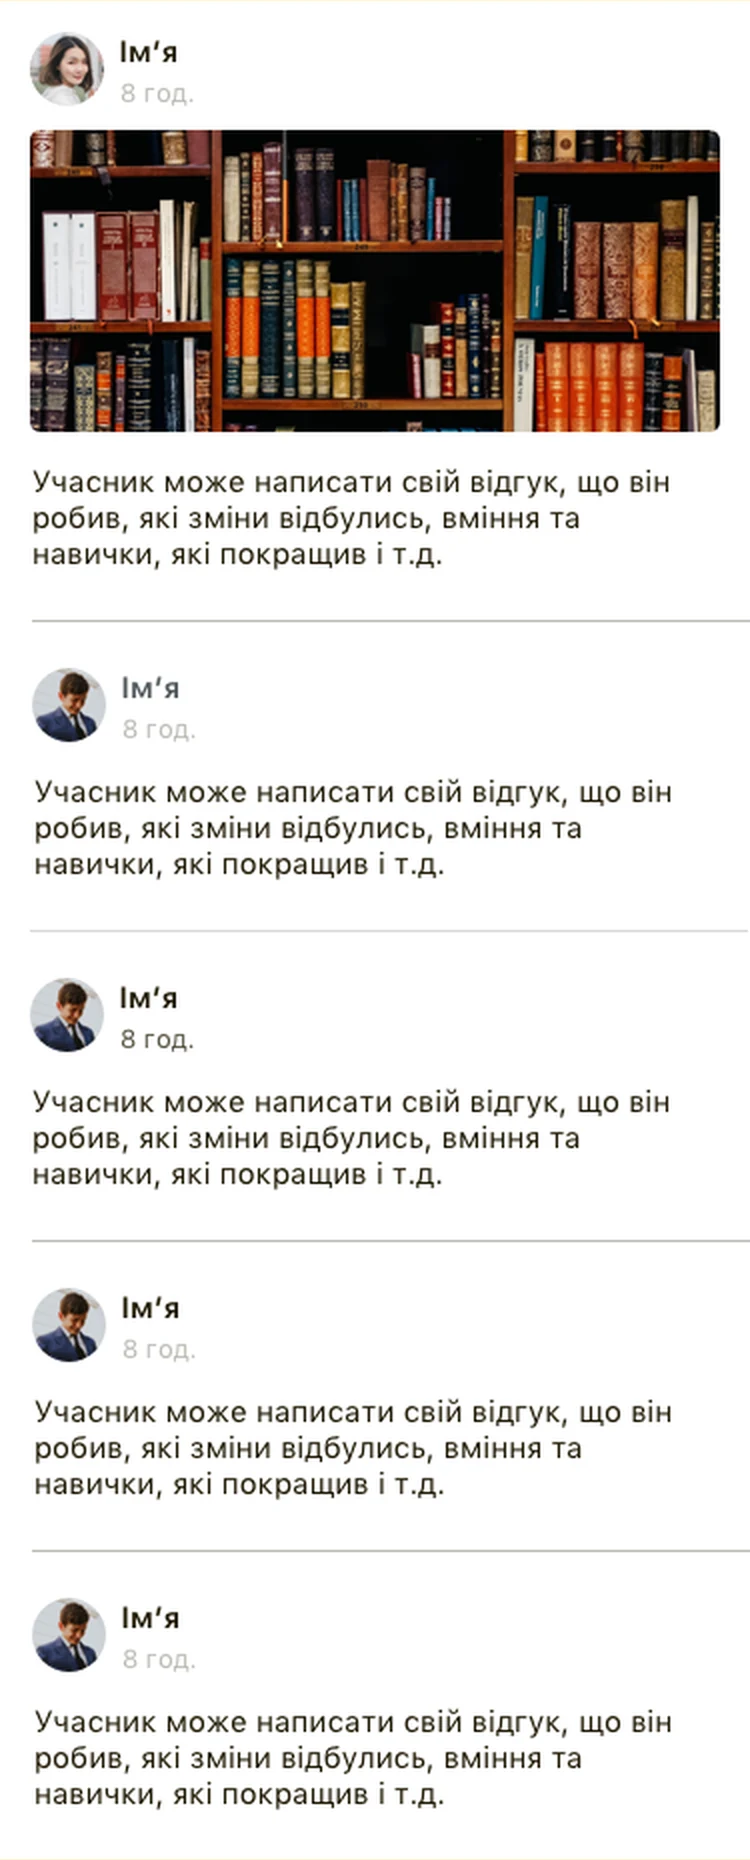
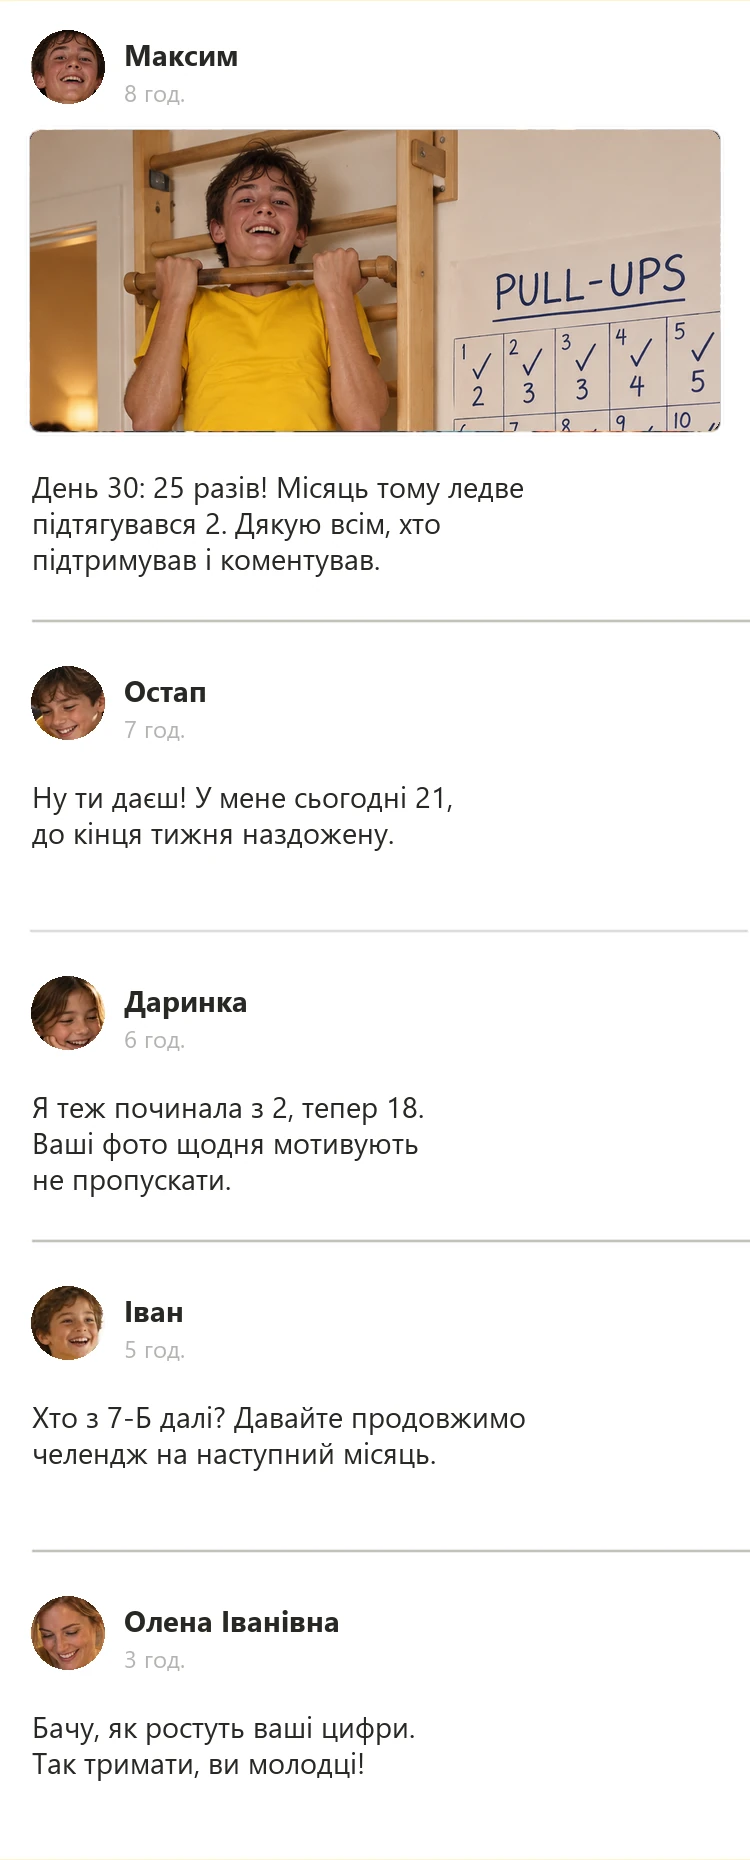
School comments screen: the pull-up post and real comments from classmates and the teacher

diff --git a/school.html b/school.html
@@ -366,7 +366,7 @@ footer .wrap{display:flex;justify-content:space-between;gap:16px;flex-wrap:wrap}
         </div>
         <div class="well n rv"><div class="phone feed" style="--t:14s"><div class="body"><div class="screen">
           <div class="sb" aria-hidden="true"><span>9:41</span><i class="island"></i><svg><use href="#sbi"/></svg></div>
-          <div class="vp comments"><img class="nav-bar" src="assets/work/school/screen-p-comments-nav.webp" alt="" width="750" height="140" loading="lazy"><img src="assets/work/school/screen-p-comments.webp" alt="Comments on a challenge: classmates post a photo and a short note on what they did and how they improved, and there is a field to write a comment." width="750" height="1860" loading="lazy"><img class="bar" src="assets/work/school/screen-p-comments-bar.webp" alt="" width="750" height="204" loading="lazy"></div>
+          <div class="vp comments"><img class="nav-bar" src="assets/work/school/screen-p-comments-nav.webp" alt="" width="750" height="140" loading="lazy"><img src="assets/work/school/screen-p-comments.webp?v=2" alt="Comments on the pull-up challenge, in Ukrainian: Maksym posts a photo of himself at the bar and writes that on day 30 he did 25, a month after barely managing 2; classmates reply with their own counts and plans to keep going, and the teacher writes that she sees their numbers grow." width="750" height="1860" loading="lazy"><img class="bar" src="assets/work/school/screen-p-comments-bar.webp" alt="" width="750" height="204" loading="lazy"></div>
         </div></div></div></div>
       </div>
     </div>

diff --git a/tools/school-comments/render.py b/tools/school-comments/render.py
@@ -1,0 +1,57 @@
+# Rewrites the School "Коментарі" screen for the pull-up challenge: the post photo becomes the pull-up photo,
+# the placeholder names and comments become real ones. base.png: her 2020 screen (375 x 1122);
+# pullups.png: the Progress photo (Figma AI, 2026-10-10). Run from this folder.
+# Writes the scrolling middle of the screen at 2x: ../../assets/work/school/screen-p-comments.webp
+from PIL import Image, ImageDraw, ImageFont
+base = Image.open('base.png').convert('RGB').resize((750, 2244), Image.LANCZOS)
+im = base.crop((0, 180, 750, 2040))          # between the nav (0-180) and the comment field (2040-2244)
+d = ImageDraw.Draw(im)
+F = 'C:/Windows/Fonts/'
+name_f = ImageFont.truetype(F + 'segoeuib.ttf', 29)
+time_f = ImageFont.truetype(F + 'segoeui.ttf', 24)
+text_f = ImageFont.truetype(F + 'segoeui.ttf', 29)
+INK, GREY, WHITE = (40, 40, 36), (180, 180, 178), (255, 255, 255)
+
+# the post photo: the boy at the bar and the calendar, rounded like the original
+ph = Image.open('pullups.png').convert('RGB')
+box = (30, 130, 720, 431)
+w, h = box[2] - box[0], box[3] - box[1]
+src = ph.crop((120, 40, 120 + 830, 40 + round(830 * h / w))).resize((w, h), Image.LANCZOS)
+mask = Image.new('L', (w, h), 0); ImageDraw.Draw(mask).rounded_rectangle((0, 0, w - 1, h - 1), 12, fill=255)
+im.paste(src, box[:2], mask)
+
+# avatars: faces from the page's own photos (all AI images), cut into circles
+def face(path, cx, cy, half):
+    return Image.open(path).convert('RGB').crop((cx - half, cy - half, cx + half, cy + half))
+A = '../../assets/work/school/'
+avatars = [
+    face('pullups.png', 393, 140, 62),                      # Maksym, the boy on the bar
+    face(A + 'kids-home-1536.webp', 878, 300, 115),         # Ostap
+    face(A + 'kids-home-1536.webp', 625, 335, 100),         # Darynka
+    face(A + 'kid-runs-960.webp', 347, 290, 78),            # Ivan
+    face(A + 'teacher-prep-1024.webp', 527, 250, 112),      # the teacher
+]
+# each comment: (top of the comment, top of its text, name, time, lines); dividers at 620, 930, 1240, 1550
+comments = [
+    (0, 466, 'Максим', '8 год.', ['День 30: 25 разів! Місяць тому ледве', 'підтягувався 2. Дякую всім, хто', 'підтримував і коментував.']),
+    (620, 776, 'Остап', '7 год.', ['Ну ти даєш! У мене сьогодні 21,', 'до кінця тижня наздожену.']),
+    (930, 1086, 'Даринка', '6 год.', ['Я теж починала з 2, тепер 18.', 'Ваші фото щодня мотивують', 'не пропускати.']),
+    (1240, 1396, 'Іван', '5 год.', ['Хто з 7-Б далі? Давайте продовжимо', 'челендж на наступний місяць.']),
+    (1550, 1706, 'Олена Іванівна', '3 год.', ['Бачу, як ростуть ваші цифри.', 'Так тримати, ви молодці!']),
+]
+for (top, ttop, name, time, lines), av in zip(comments, avatars):
+    ay = top + (30 if top == 0 else 46)                     # avatar top
+    d.ellipse((24, ay - 6, 112, ay + 80), fill=WHITE)
+    av = av.resize((74, 74), Image.LANCZOS)
+    m = Image.new('L', (74, 74), 0); ImageDraw.Draw(m).ellipse((0, 0, 73, 73), fill=255)
+    im.paste(av, (31, ay), m)
+    ny = ay + 6
+    d.rectangle((112, ny - 12, 724, ny + 86), fill=WHITE)   # old name and time
+    d.text((124, ny - 2), name, font=name_f, fill=INK)
+    d.text((124, ny + 40), time, font=time_f, fill=GREY)
+    d.rectangle((24, ttop - 2, 730, ttop + 112), fill=WHITE)  # old three lines of text
+    for i, line in enumerate(lines):
+        d.text((32, ttop + i * 36), line, font=text_f, fill=INK)
+
+im.save('../../assets/work/school/screen-p-comments.webp', quality=90, method=6)
+im.crop((0, 0, 750, 1300)).save('preview.png')

diff --git a/school.md b/school.md
@@ -37,7 +37,7 @@ Sources: her Behance case [IOS App_School](https://www.behance.net/gallery/15035
    2. *Photo:* a teacher at her kitchen table in the evening, preparing a lesson with books and a phone (square, 1024, `teacher-prep`; shown full width, cropped to 16:9, 2026-10-10, her request). *Text:* **A lesson in three steps.** The teacher picks a date, adds photos, video and files, and publishes. The class was chosen at sign-up, so the lesson reaches the right pupils, and the homework sits right under it. *Screens:* new lesson, lesson (scrolls).
    3. *Photo:* a boy running down the hallway to show his mother something on a phone (portrait, 960 × 1280, `kid-runs`). *Text:* **Homework that answers back.** Pupils send homework with a comment and files. A notification tells them when the teacher has commented on it or graded it, so nobody waits for a parent to forward a message. *Screens:* homework (on a yellow tile with the white outline phone, like the others, 2026-10-10, her request; it was on a cream tile), notifications.
    4. *Photo:* two teachers on a sofa with books, laughing at something on a phone (wide, 1536 × 864, `teachers-laugh`). *Text:* **Challenges with moderation.** Teachers start challenges for their class, for other teachers or for everyone. Challenges created by pupils wait for the teacher, who allows or declines them. *Screens:* new challenge with its audience, challenge waiting for moderation.
-   5. *Photo* (replaced 2026-10-10, her request): a boy of about 13 doing a pull-up on wall bars, looking straight ahead, out of breath and grinning (regenerated 2026-10-10, her request), as his parents come home and smile in the doorway; beside him a big hand-drawn month calendar, "PULL-UPS", every day ticked with a count that grows from 2 to 25, so a month-long challenge is visible at a glance (portrait, 960 × 1280, `pullups`; AI image, Figma AI gpt-image-2.5, her Pro plan; no posters, logos or other text in the room). *Text:* **Progress you can see.** In a challenge, pupils compete with each other. In a month-long pull-up challenge, everyone ticks off every day, logs how many they did and posts a photo. Classmates comment, cheer and try to beat each other's count, and that is what keeps them going: the count grows from 2 to 25. Homework shows progress too: done, being checked, or graded out of 100. (2026-10-10, her request: pupils compete, post photos and comment, and so motivate each other.) *Screen:* the comments on a challenge (pupil, `comments`), in a navy tile under the text in the left column, its bottom on the photo's bottom; the nav and the comment field stay put while the comments scroll (replaced the grading screen, 2026-10-10).
+   5. *Photo* (replaced 2026-10-10, her request): a boy of about 13 doing a pull-up on wall bars, looking straight ahead, out of breath and grinning (regenerated 2026-10-10, her request), as his parents come home and smile in the doorway; beside him a big hand-drawn month calendar, "PULL-UPS", every day ticked with a count that grows from 2 to 25, so a month-long challenge is visible at a glance (portrait, 960 × 1280, `pullups`; AI image, Figma AI gpt-image-2.5, her Pro plan; no posters, logos or other text in the room). *Text:* **Progress you can see.** In a challenge, pupils compete with each other. In a month-long pull-up challenge, everyone ticks off every day, logs how many they did and posts a photo. Classmates comment, cheer and try to beat each other's count, and that is what keeps them going: the count grows from 2 to 25. Homework shows progress too: done, being checked, or graded out of 100. (2026-10-10, her request: pupils compete, post photos and comment, and so motivate each other.) *Screen:* the comments on the pull-up challenge (her pupil `comments` screen, rewritten 2026-10-10, her request, with [`tools/school-comments/render.py`](tools/school-comments/render.py): the post photo is the pull-up photo; Maksym writes "День 30: 25 разів! Місяць тому ледве підтягувався 2…", Ostap, Darynka and Ivan reply with their counts, the teacher Olena Ivanivna closes; avatars are faces from the page's own AI photos; names are made up), in a navy tile under the text in the left column, its bottom on the photo's bottom; the nav and the comment field stay put while the comments scroll (replaced the grading screen, 2026-10-10).
 4. **Context** (replaces Target audience, 2026-10-10, her request: show that children are forced to learn at home during war and epidemics) — subtitle: "Learning at home, in war and epidemics". A wide photo, then the text on its left edge, set wider (10 of 12 columns, longer lines, 2026-10-10, her request). The second photo (parents at work in masks) was removed 2026-10-10, her request, and the masks moved onto the children.
    - *Photo:* a university student (a young woman with a laptop) and a schoolboy (with his exercise book and coloured pencils), both in medical masks, studying at one table by a window at dusk (2026-10-10, her request: one student, one pupil; the room was regenerated); outside, a drone explodes against an apartment block and other buildings burn under black smoke (2026-10-10, her request: a sadder view). AI images, Figma AI (Gemini 3.1 Flash Image, her Pro plan, 2026-10-10; gpt-image-2.5 refused the war prompt); not real people or a real place. The room is kept as it was; only the glass is replaced with a second generated view of the city (mirrored and scaled to 75 % so the strike sits in the left pane), blended in above the lamp, the plants and the boy's head with [`tools/school-window/render.py`](tools/school-window/render.py). `war-home-strike-1376.webp` + `-688`.
    - *Text:* **When school stays at home.** Wars and epidemics close schools. During the pandemic, and then the war, children in Ukraine learned from home for months at a time. The kitchen table became their classroom, often in a city where sirens and explosions were part of the day. / Their parents still went to work, so children studied alone, with a phone and a pile of textbooks. Classmates turned into names in a group chat, and lessons into files to download. Without a teacher in the room, it was easy to lose interest and fall behind. / School is built for that moment: lessons, homework and challenges in one place, a teacher who sees every answer, and classmates close by, even when the classroom is not.
